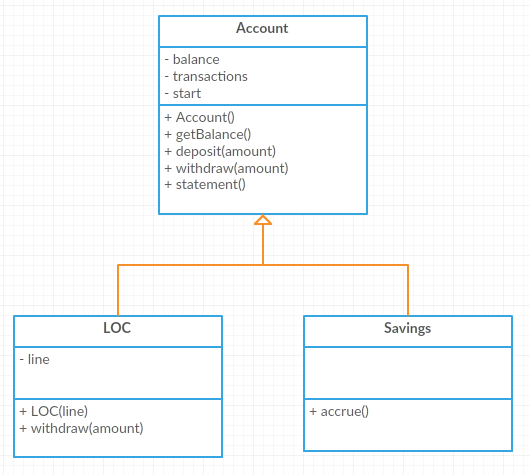
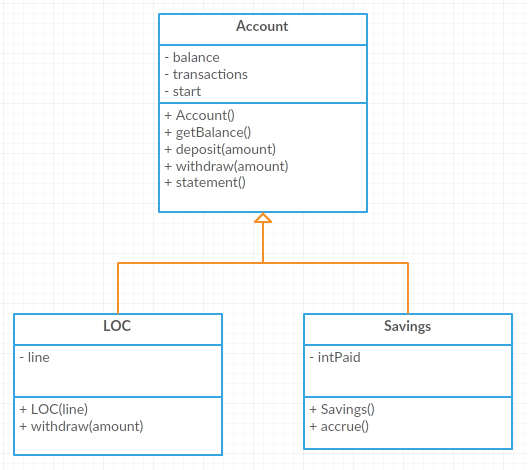
inheritance

Changed region(s): [[0.0303, 0.0298, 0.9697, 0.983]]

diff --git a/_sources/ClassesDiggingDeeper/Inheritance.rst b/_sources/ClassesDiggingDeeper/Inheritance.rst
@@ -30,7 +30,7 @@ We start by defining LOC as a child class of Account. The name of the parent cla
                 self.balance -= amount
 
     class LOC(Account):
-        ''' LOC inherits everything from Account '''
+        '''LOC inherits everything from Account'''
 
     a = LOC()
     a.deposit(100)
@@ -95,12 +95,13 @@ Now we modify the withdraw method.
                 self.balance -= amount
 
     class LOC(Account):
-        def __init__(self, loc):
-            self.__loc = loc
+        def __init__(self, line):
+            self.__line = line
             Account.__init__(self)
 
         def withdraw(self, amount):
-            if self.balance + self.__loc >= amount:
+            '''allow overdraft up to line of credit'''
+            if self.balance + self.__line >= amount:
                 self.balance -= amount
 
     a = LOC(500)
@@ -141,10 +142,17 @@ We start by saying that LOC is a child class of Account. Then we add the accrue 
                 self.balance -= amount
 
     class Savings(Account):
-        ''' Savings inherits everything from Account '''
+        '''Savings inherits everything from Account'''
         __rate = 0.01
+        def __init__(self):
+            self.__intPaid = 0.0
+            Account.__init__(self)
+       
         def accrue(self):
-            self.deposit(Savings.__rate * self.balance)
+            '''calculate and deposit interest'''
+            interest = Savings.__rate * self.balance
+            self.__intPaid += interest
+            self.deposit(interest)
 
     a = Savings()
     a.deposit(100)
